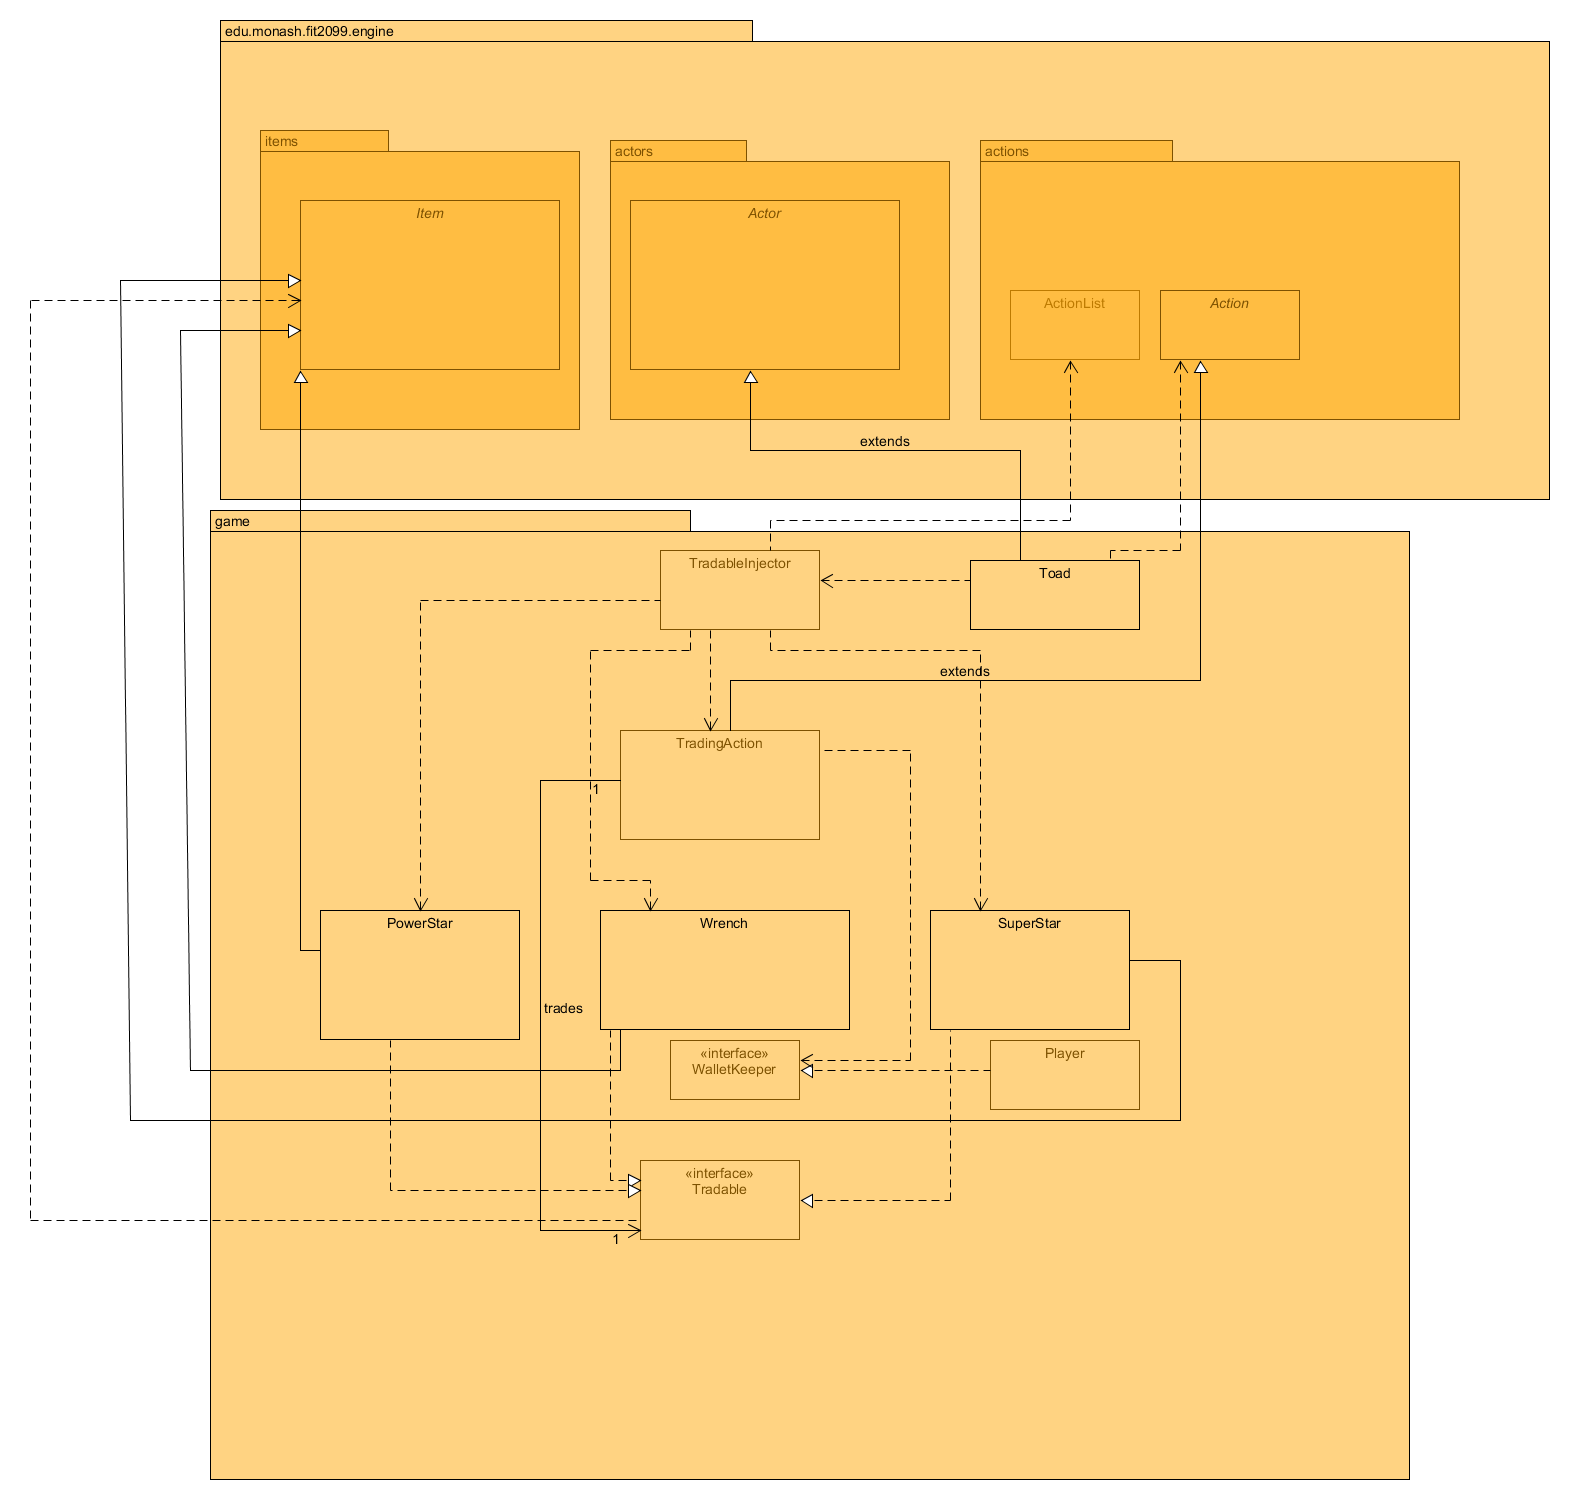
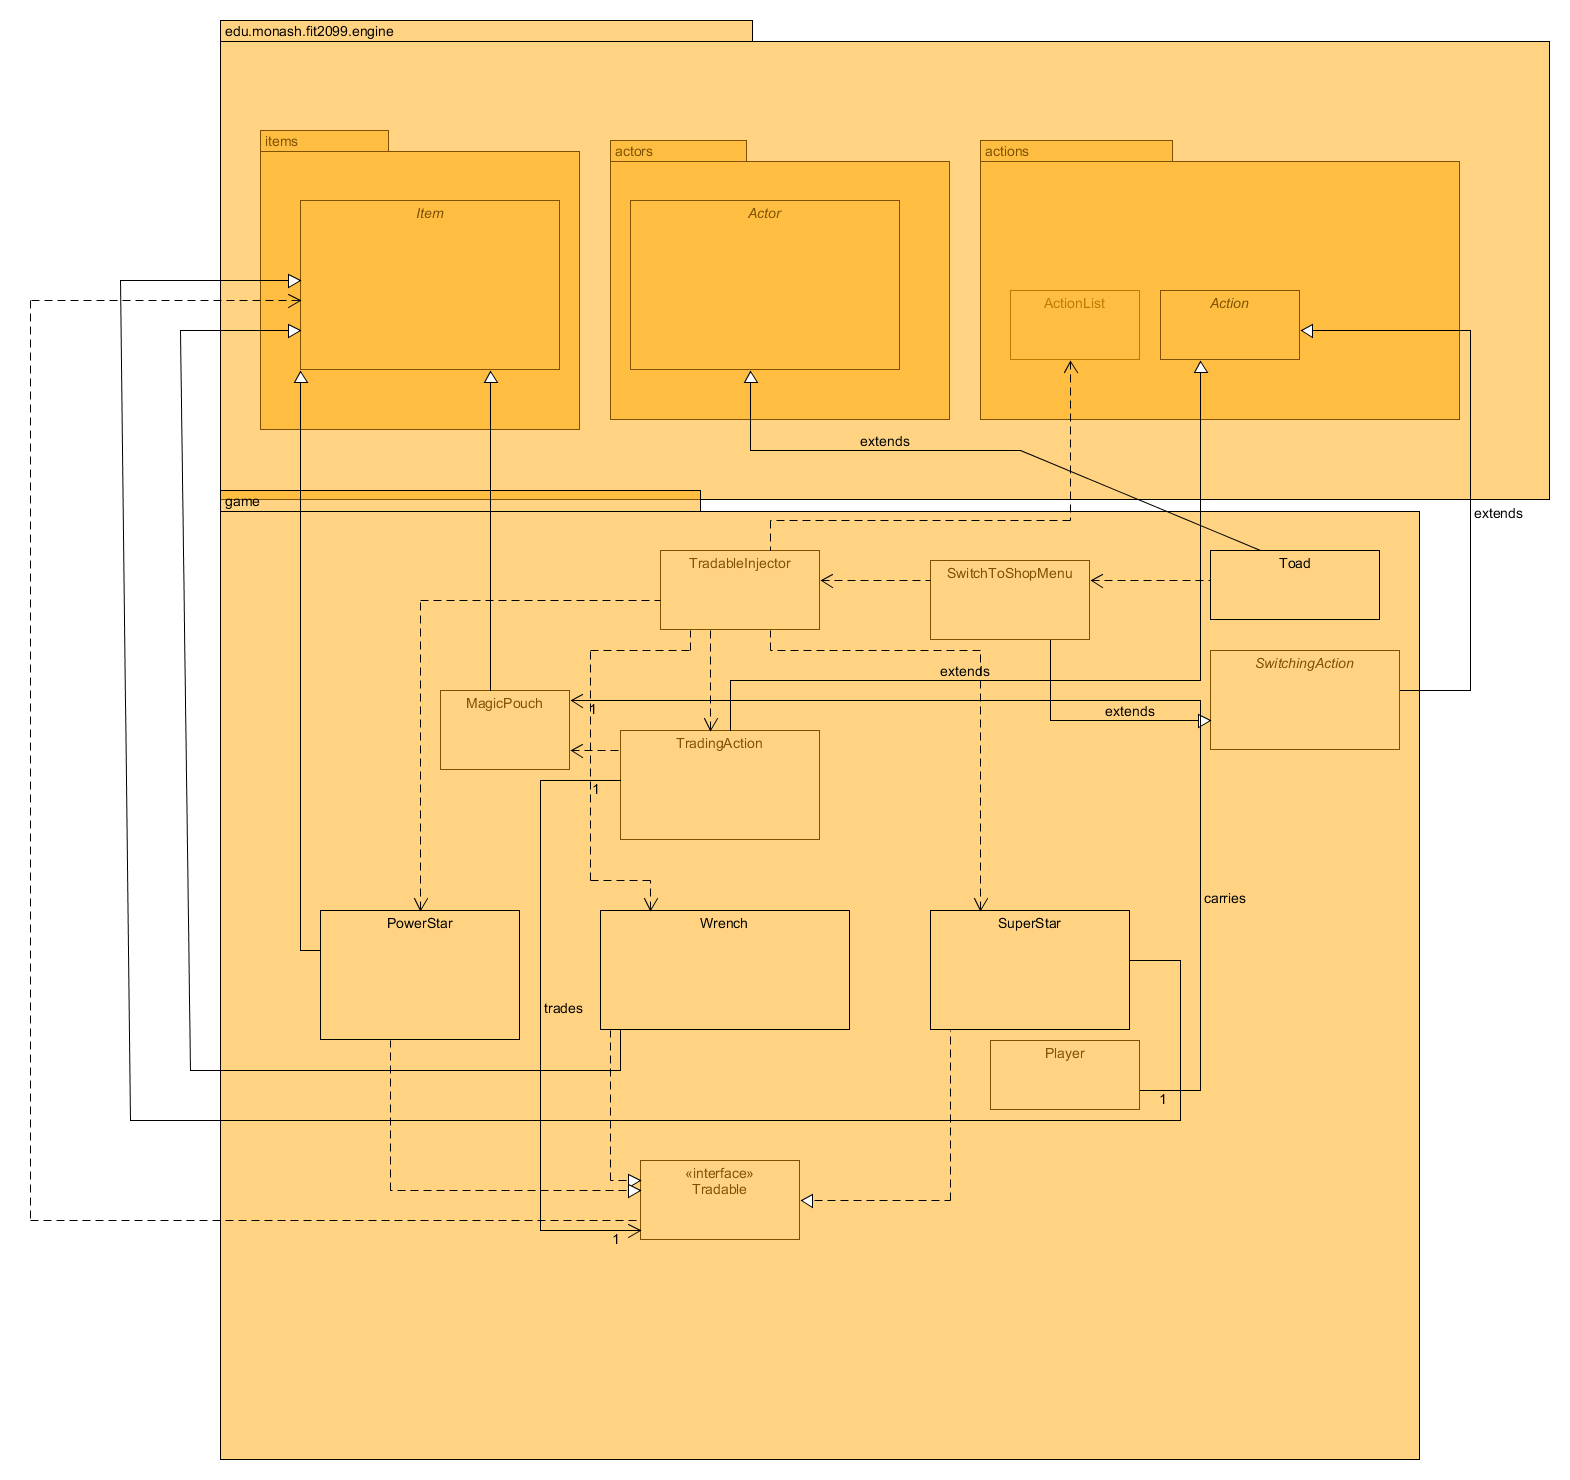
changed the req 5 ass 2

diff --git a/design-docs/REQ5_DesignRationale.md b/design-docs/REQ5_DesignRationale.md
@@ -76,3 +76,11 @@ design since it will prevent TradingAction class to access from unnecessary meth
 For the TradingInjector class, I learned from Week 8 that it is good to lift off dependencies from Toad.
 As more Tradable items appear in the game, it is only wise to create these Item objects in another class
 instead of Toad and be dependent on that class instead. Therefore, I have created a Dependency Injector class to be used for Toad class.
+
+### Changes from Assignment 2 to Assignment 3
+Instead of the WalletKeeper interface, we have now created a MagicPouch which holds many storable items such
+as coins. By doing this, we do not need to implement the keeping of balance in player, which follows the
+SRP principle!  
+
+In addition, we do also have the SwitchToShopMenu which makes it easier for the player to see which 
+action it would like to perform. 
